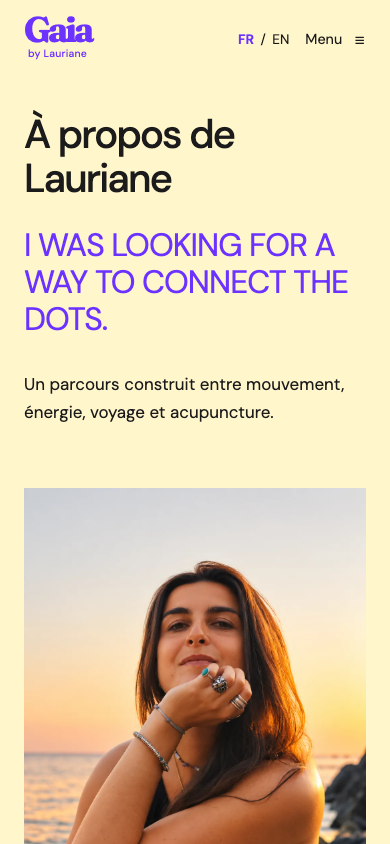
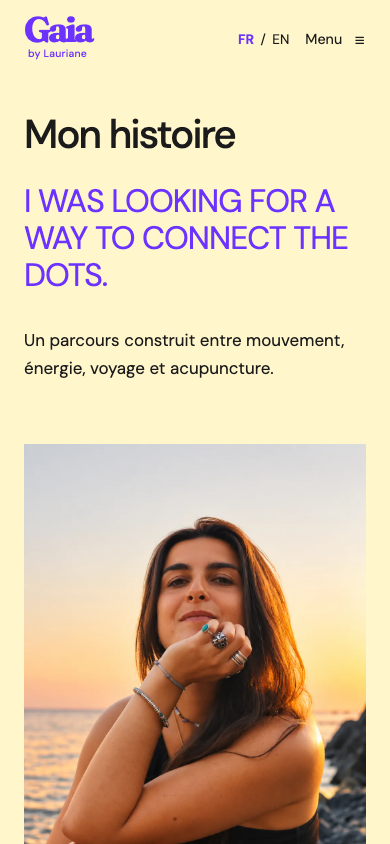
Update Site source

diff --git a/src/styles/global.css b/src/styles/global.css
@@ -38,3 +38,14 @@
 .about-page h1,.about-page h2,.about-page h3{font-family:var(--sans);font-weight:500}.about-hero{display:grid;grid-template-columns:1.1fr 1fr;gap:8%;align-items:center;padding-top:2.5rem;padding-bottom:4.5rem}.about-hero h1{font-size:clamp(2.8rem,5vw,5rem);line-height:1.1;max-width:15ch;margin-bottom:2rem}.about-hero-statement{color:var(--violet);font-size:clamp(1.8rem,3.25vw,3.3rem);line-height:1.15;letter-spacing:-.03em;text-transform:uppercase;max-width:20ch;margin-bottom:2rem}.about-hero-intro{max-width:35ch}.about-hero-photo{height:640px}.about-hero-photo img{height:100%;object-fit:cover;object-position:50% 42%}.about-editorial{display:grid;grid-template-columns:.7fr 1.5fr;gap:10%}.about-editorial>div{max-width:57ch}.about-path{background:var(--soft)}.about-emphasis{font-size:clamp(1.5rem,2.4vw,2.3rem);line-height:1.35;letter-spacing:-.02em;font-weight:500;max-width:30ch;margin-bottom:2rem}.about-story-split{display:grid;grid-template-columns:1fr 1fr;gap:10%;align-items:center}.about-story-split>div>p{max-width:48ch}.about-india{background:var(--butter)}.about-india-photo{height:520px;max-width:470px}.about-india-photo img{height:100%;object-fit:cover;object-position:50% 60%}.about-yoga{background:var(--white)}.about-yoga-photo img{aspect-ratio:4/3;object-fit:cover}.about-acupuncture{background:var(--soft)}.about-practice-photo{height:560px;max-width:450px}.about-practice-photo img{height:100%;object-fit:cover;object-position:60% center}.about-training{background:var(--butter)}.about-training>p{max-width:58ch}.about-training-grid{display:grid;grid-template-columns:repeat(3,minmax(0,1fr));gap:5%;margin-top:3rem}.about-training-grid h3{font-size:1.45rem;line-height:1.25;letter-spacing:-.025em;text-transform:uppercase;min-height:3.75em;margin-bottom:1.3rem}.about-training-grid p{max-width:28ch}.about-connection{background:var(--white)}.about-connection-statement{font-family:var(--serif);font-size:clamp(3rem,6vw,5.5rem);line-height:1.12;letter-spacing:-.03em;margin:0 0 2.5rem}.about-connection-copy{margin-left:auto;max-width:58ch}.about-today{background:var(--soft)}.about-linking-lines{font-size:clamp(1.4rem,2.25vw,2.1rem);font-weight:500;line-height:1.5;letter-spacing:-.025em;margin:2rem 0;color:var(--orange)}.about-linking-lines span{display:block}.about-final-support{font-size:1.25rem;margin:1.5rem auto 2rem}
 @media(max-width:1050px){.about-hero{gap:6%}.about-hero-photo{height:550px}.about-hero h1{font-size:3rem}.about-hero-statement{font-size:2rem}.about-editorial,.about-story-split{gap:7%}.about-india-photo{height:460px}.about-practice-photo{height:510px}.about-training-grid h3{font-size:1.25rem;min-height:5em}}
 @media(max-width:700px){.about-hero{grid-template-columns:1fr;gap:2.5rem;padding-top:2rem;padding-bottom:3.5rem}.about-hero h1{font-size:clamp(2.5rem,10vw,3.6rem);margin-bottom:1.7rem}.about-hero-statement{font-size:2rem}.about-hero-photo{height:auto;aspect-ratio:2/3}.about-editorial,.about-story-split{grid-template-columns:1fr;gap:0}.about-emphasis{font-size:1.7rem}.about-india-photo,.about-practice-photo{grid-row:2;height:auto;max-width:none;aspect-ratio:3/4;margin-top:2rem}.about-yoga-photo{margin-top:2rem}.about-training-grid{grid-template-columns:1fr;gap:2rem;margin-top:2rem}.about-training-grid h3{min-height:0;font-size:1.4rem;max-width:26ch;margin-bottom:1rem}.about-training-grid p{max-width:40ch}.about-connection-statement{font-size:clamp(2.6rem,10.5vw,4rem);margin-bottom:2rem}.about-connection-copy{margin-left:0}.about-linking-lines{font-size:1.6rem}.about-final-support{font-size:1.15rem}}
+
+/* À propos refinement: scoped hierarchy and larger existing photographs. */
+.about-page .eyebrow{font-size:1.125rem;font-weight:500;letter-spacing:.04em;line-height:1.5}
+.about-page .about-story-split{gap:7%}
+.about-page .about-india-photo{height:640px;max-width:none}
+.about-page .about-practice-photo{height:630px;max-width:none}
+.about-page .about-yoga .about-story-split{grid-template-columns:.85fr 1.15fr}
+.about-page .about-yoga-photo img{aspect-ratio:1.28;object-fit:cover;object-position:50% 50%}
+.about-page .about-india-emphasis,.about-page .about-closing-line{color:var(--orange);font-weight:500;font-size:1.65rem;line-height:1.35;letter-spacing:-.02em;margin-top:2rem;margin-bottom:2rem}
+@media(max-width:1050px){.about-page .about-india-photo{height:570px}.about-page .about-practice-photo{height:560px}.about-page .about-story-split{gap:6%}.about-page .eyebrow{font-size:1.05rem}}
+@media(max-width:700px){.about-page .about-story-split,.about-page .about-yoga .about-story-split{grid-template-columns:1fr;gap:0}.about-page .about-india-photo,.about-page .about-practice-photo{height:auto;aspect-ratio:3/4;margin-top:2rem}.about-page .about-yoga-photo img{aspect-ratio:4/3}.about-page .eyebrow{font-size:1.05rem}.about-page .about-india-emphasis,.about-page .about-closing-line{font-size:1.5rem}}

diff --git a/src/data/site.ts b/src/data/site.ts
@@ -3,5 +3,5 @@ export const site = {name:'GAIA by Lauriane', origin:'https://gaiabylauriane.com
 export const routes = {home:{fr:'',en:''},acupuncture:{fr:'acupuncture',en:'acupuncture'},aculift:{fr:'aculift',en:'aculift'},pranic:{fr:'pranic-healing',en:'pranic-healing'},women:{fr:'sante-feminine',en:'womens-health'},about:{fr:'a-propos',en:'about'},journal:{fr:'journal',en:'journal'},contact:{fr:'contact',en:'contact'},links:{fr:'links',en:'links'}} as const;
 export type Page = keyof typeof routes;
 export const url = (lang:Lang,page:Page='home') => `/${lang}/${routes[page][lang] ? routes[page][lang]+'/' : ''}`;
-export const labels = {fr:{acupuncture:'Acupuncture',aculift:'Aculift',pranic:'Pranic Healing',women:'Santé féminine',about:'Lauriane',journal:'Journal',contact:'Contact',links:'Liens',home:'Accueil',book:'Prendre rendez-vous',discover:'Découvrir mon approche',menu:'Menu'},en:{acupuncture:'Acupuncture',aculift:'Aculift',pranic:'Pranic Healing',women:'Women’s health',about:'Lauriane',journal:'Journal',contact:'Contact',links:'Links',home:'Home',book:'Book an appointment',discover:'Explore my approach',menu:'Menu'}};
+export const labels = {fr:{acupuncture:'Acupuncture',aculift:'Aculift',pranic:'Pranic Healing',women:'Santé féminine',about:'À propos',journal:'Journal',contact:'Contact',links:'Liens',home:'Accueil',book:'Prendre rendez-vous',discover:'Découvrir mon approche',menu:'Menu'},en:{acupuncture:'Acupuncture',aculift:'Aculift',pranic:'Pranic Healing',women:'Women’s health',about:'Lauriane',journal:'Journal',contact:'Contact',links:'Links',home:'Home',book:'Book an appointment',discover:'Explore my approach',menu:'Menu'}};
 export const descriptions = {fr:{home:'GAIA by Lauriane : acupuncture traditionnelle, Aculift et Pranic Healing. Une approche du corps fondée sur les liens et la reconnexion.',acupuncture:'Découvrez l’acupuncture traditionnelle avec Lauriane : son approche, le déroulement d’une séance et les informations de consultation.',aculift:'Découvrez l’Aculift, une approche du visage inspirée de l’acupuncture traditionnelle, avec Lauriane.',pranic:'Découvrez le Pranic Healing, une pratique énergétique complémentaire proposée par Lauriane.',women:'Santé féminine avec GAIA : le regard de Lauriane sur le cycle menstruel, les sujets qu’elle approfondit et sa spécialisation en développement.',about:'Découvrez le parcours de Lauriane : voyages en Asie, yoga, formation en acupuncture traditionnelle et naissance de GAIA by Lauriane.',journal:'Le futur Journal GAIA : acupuncture, santé féminine, corps, énergie et reconnexion.',contact:'Préparer une rencontre avec Lauriane et découvrir les informations de rendez-vous GAIA.',links:'Retrouvez les pratiques, le Journal et les informations de rendez-vous GAIA by Lauriane.'},en:{home:'GAIA by Lauriane: traditional acupuncture, Aculift and Pranic Healing. An approach to the body rooted in connection.',acupuncture:'Explore Lauriane’s approach to traditional acupuncture: listening, connecting and finding pathways.',aculift:'Explore Aculift, a facial approach inspired by traditional acupuncture, with Lauriane.',pranic:'Explore Pranic Healing, a complementary energy practice offered by Lauriane.',women:'GAIA’s perspective on women’s health and the training Lauriane is currently deepening.',about:'Lauriane’s path from solar energy to acupuncture, through India, yoga and a search for connection.',journal:'The future GAIA Journal: acupuncture, women’s health, body, energy and reconnection.',contact:'Plan a meeting with Lauriane and find GAIA appointment information.',links:'Find GAIA by Lauriane’s practices, Journal and appointment information.'}};

diff --git a/src/data/about-fr.ts b/src/data/about-fr.ts
@@ -1,5 +1,5 @@
 export const aboutFr = {
- title:'À propos de Lauriane',
+ title:'Mon histoire',
  statement:'I was looking for a way to connect the dots.',
  intro:'Un parcours construit entre mouvement, énergie, voyage et acupuncture.',
  path:[
@@ -8,11 +8,12 @@ export const aboutFr = {
  'Mais très vite, les voyages et les expériences en Asie ont commencé à ouvrir d’autres questions : comment mieux comprendre le corps, l’énergie, le mouvement et les liens entre eux ?'
  ],
  india:[
- 'Pendant mon semestre d’échange à Hong Kong, j’ai eu l’occasion de voyager en Asie.',
- 'À Singapour, je me suis retrouvée presque par hasard au milieu d’une pooja indienne.',
- 'Je ne connaissais presque rien à l’Inde, mais quelque chose a immédiatement accroché.',
- 'Quelques semaines plus tard, je partais en Inde.',
- 'Ce qui devait être une courte immersion dans un ashram s’est transformé en plusieurs mois.'
+ 'Pendant mon semestre d’échange à Hong Kong, j’ai eu l’occasion de beaucoup voyager en Asie.',
+ 'Je me souviens notamment d’un séjour à Singapour, un lendemain de soirée un peu festive. Pendant que mes amis dormaient encore, je suis partie découvrir la ville, appareil photo à la main.',
+ 'De fil en aiguille, je me suis retrouvée dans le quartier indien, au milieu d’une pooja. Je ne connaissais presque rien à l’Inde. J’étais comme une enfant : fascinée par les couleurs, les odeurs et la dévotion que j’observais autour de moi.',
+ 'Je me souviens avoir su à ce moment-là que j’irais en Inde.',
+ 'Une semaine plus tard, j’étais dans l’avion.',
+ 'Ce qui devait ensuite être une courte immersion dans un ashram s’est transformé en plusieurs mois.'
  ],
  yoga:[
  'Le yoga est devenu une pratique quotidienne.',
@@ -34,7 +35,5 @@ export const aboutFr = {
  'Je n’ai jamais cherché à accumuler les disciplines.',
  'Ce qui m’intéresse, c’est de comprendre comment elles peuvent dialoguer entre elles et ce qu’elles peuvent m’apprendre sur le fonctionnement du corps, de l’énergie et du mouvement.'
  ],
- todayOpening:'GAIA est né de cette envie de relier.',
- todayLines:['Relier les signes.','Relier les disciplines.','Relier le corps à ce qu’il exprime.'],
- today:'Aujourd’hui, GAIA prend forme autour de ma pratique de l’acupuncture, de l’Aculift et du Pranic Healing, avec l’envie de créer progressivement des espaces où l’on peut mieux comprendre son corps et se reconnecter à ce qui a toujours été là.'
+ closing:'C’est de cette envie de relier qu’est né GAIA.'
 };
